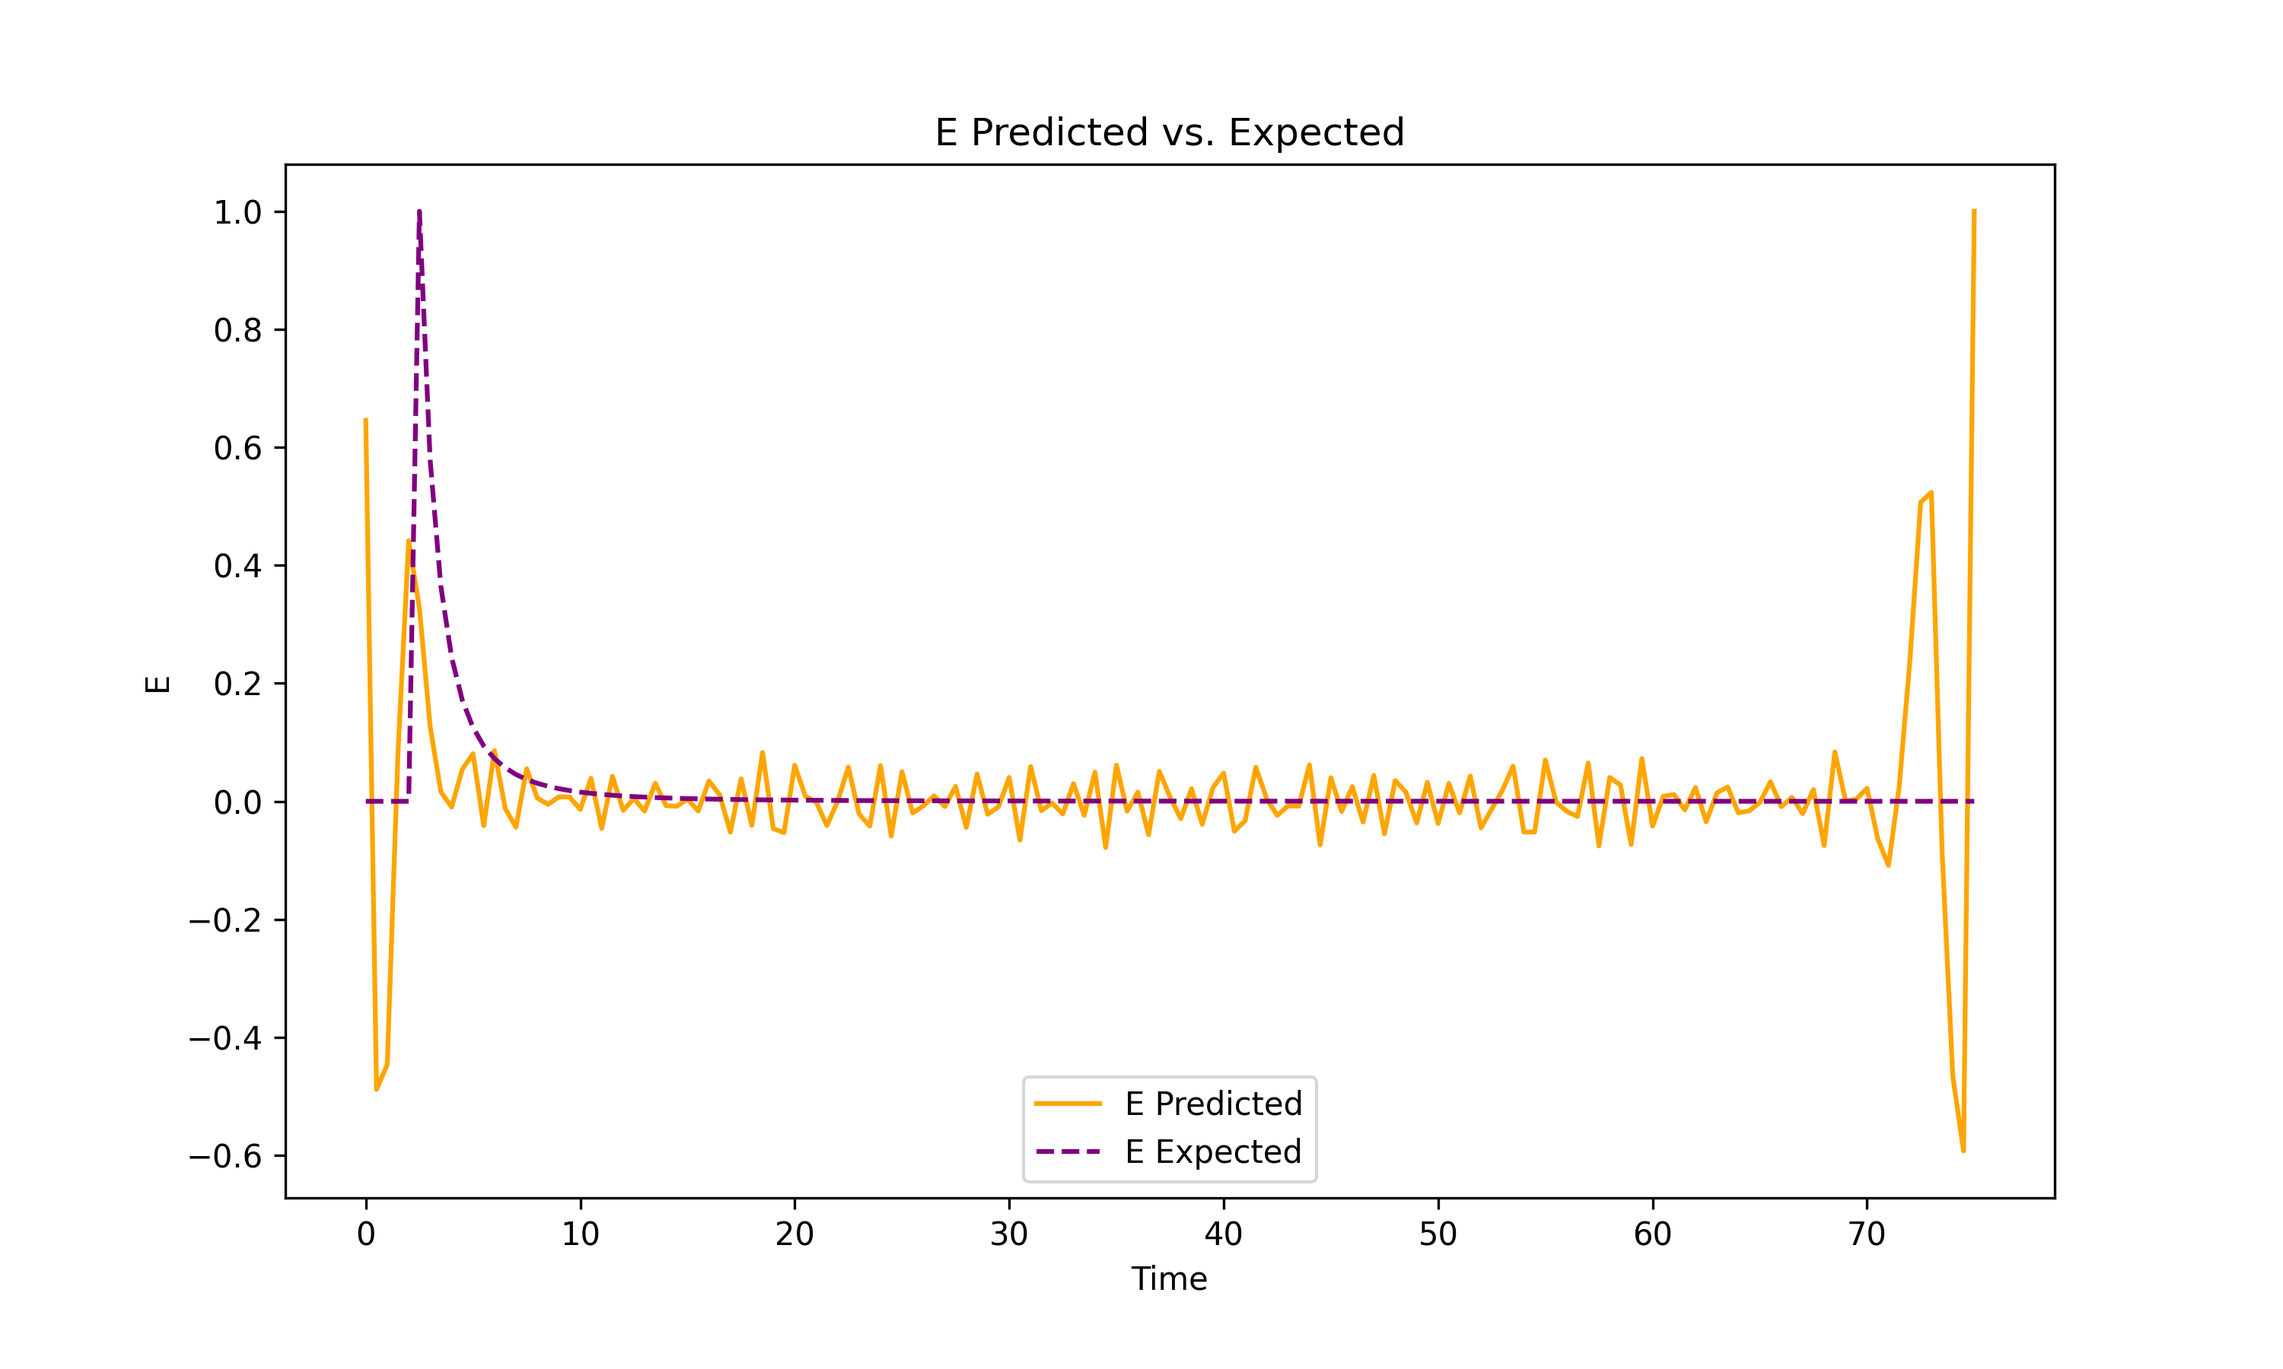
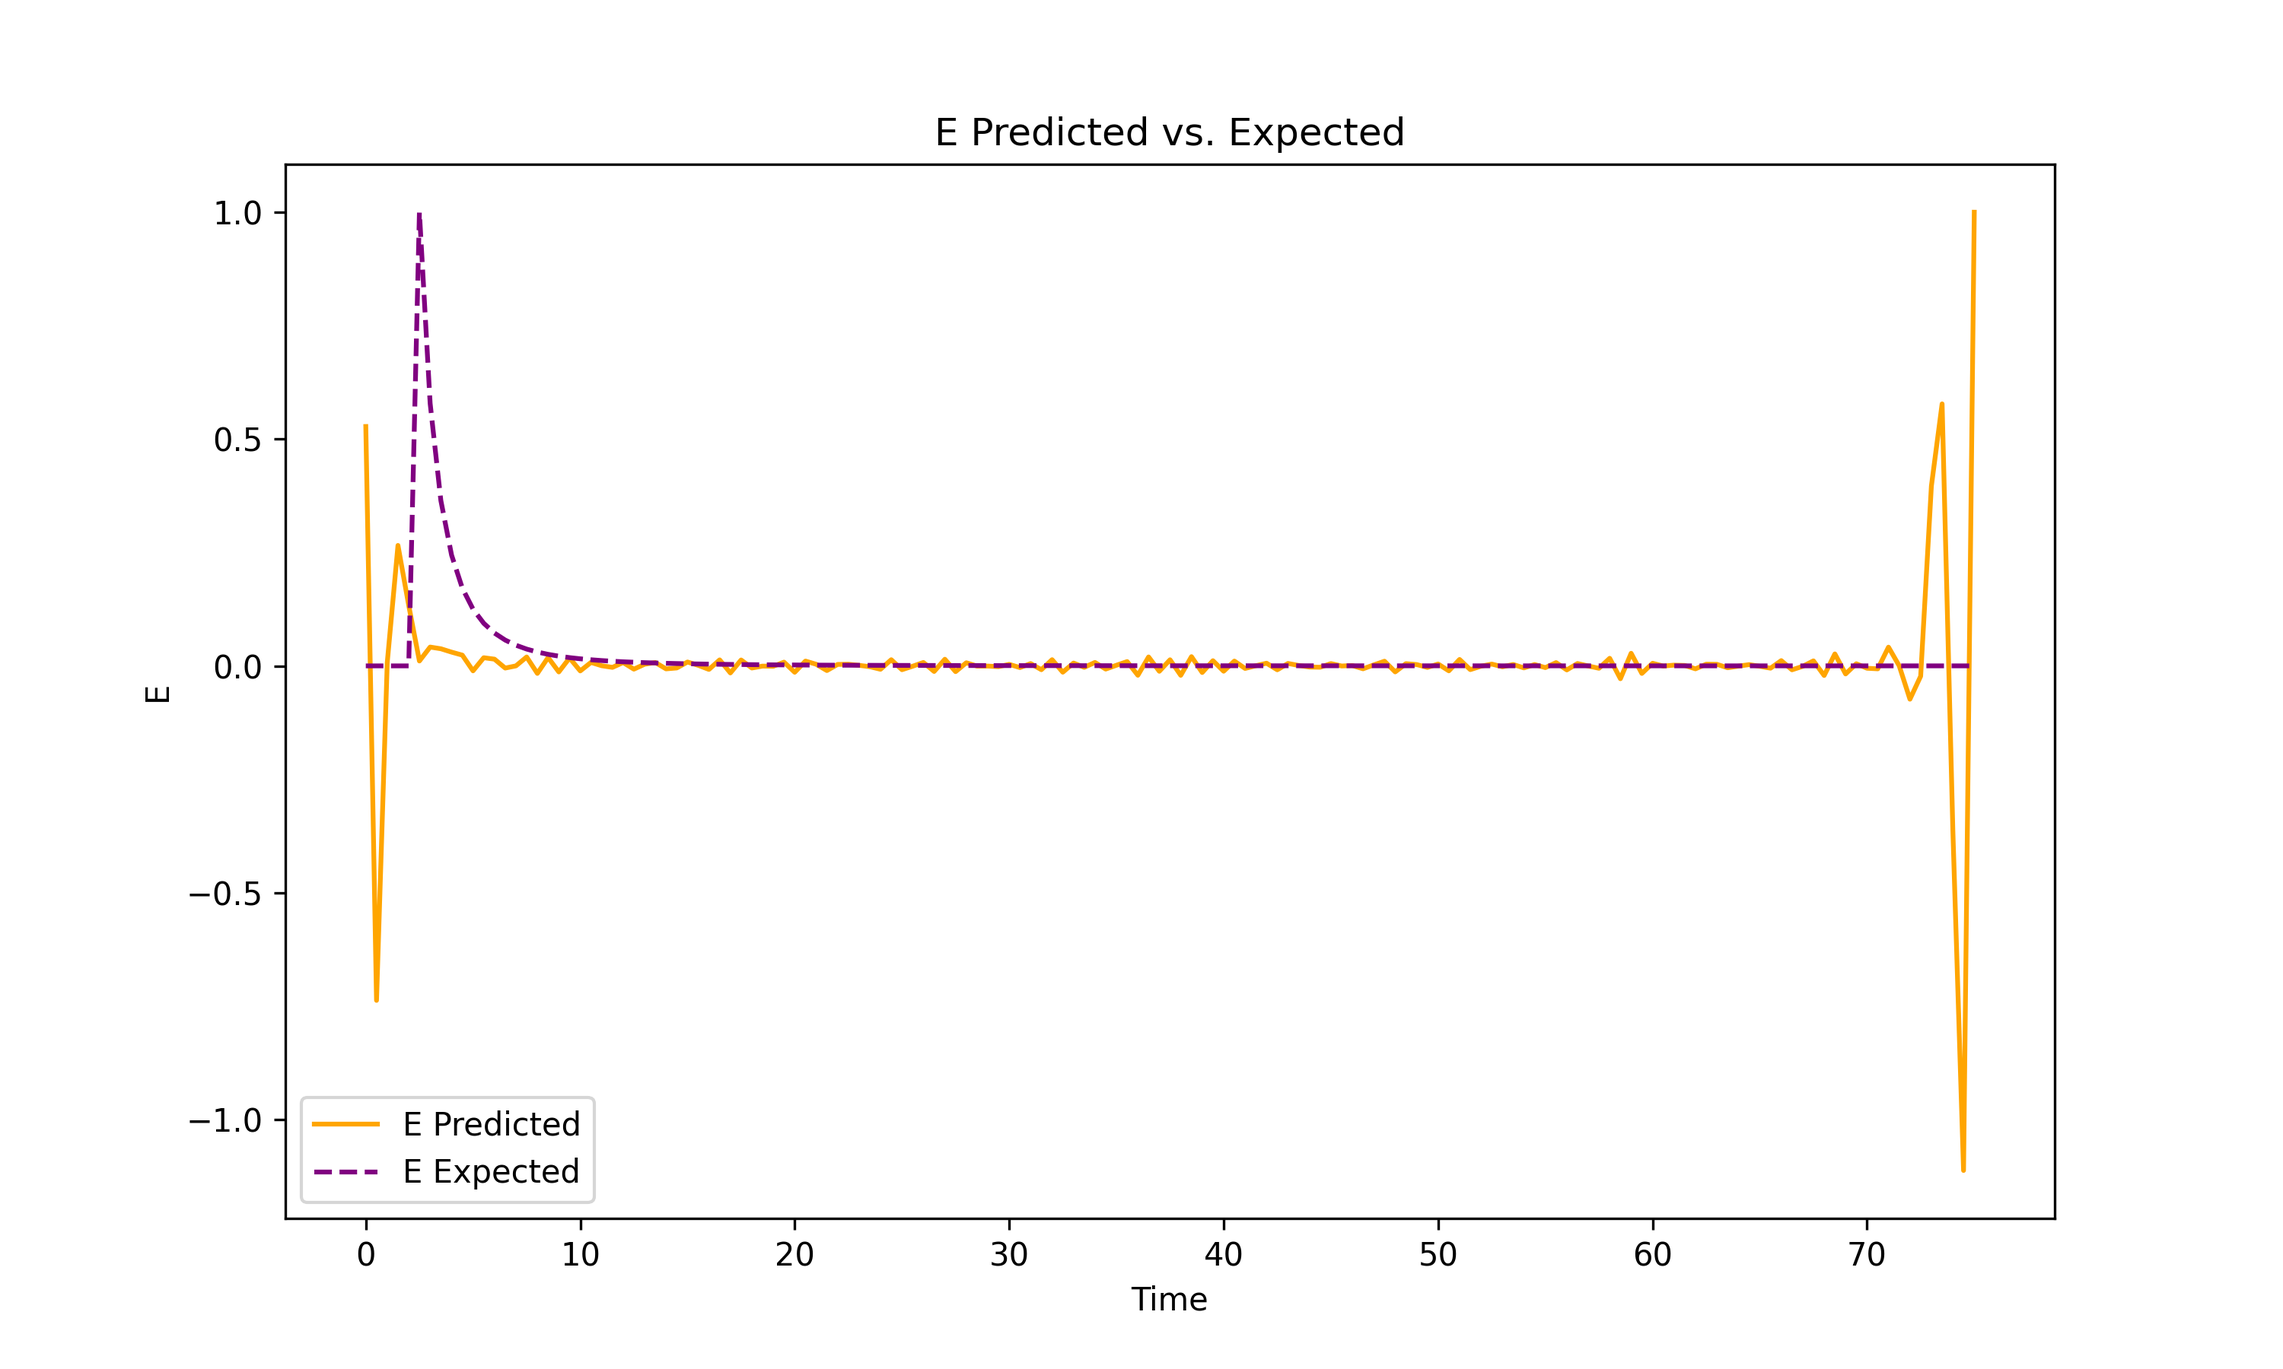
Dynamic

diff --git a/Experiments/Preliminary/Convolution_script/Convolution_Laminar_Flow_Dynamic/Laminar_Flow_Dynamic_03.py b/Experiments/Preliminary/Convolution_script/Convolution_Laminar_Flow_Dynamic/Laminar_Flow_Dynamic_03.py
@@ -2,34 +2,46 @@ import matplotlib.pyplot as plt
 import numpy.typing as npt
 import sys
 import os
+module_path = os.path.expanduser("lib")
+sys.path.append(module_path)
 import torch
 from torch.utils.data import TensorDataset, DataLoader
 import lightning.pytorch as pl
 import numpy as np
 import wandb
-module_path = os.path.expanduser("~/Documents/GitHub/nRTD/lib")
+#module_path = os.path.expanduser("~/Documents/GitHub/nRTD/lib")
+#sys.path.append(module_path)
+
+module_path = r"D:\Tuana\nRTD\lib"
 sys.path.append(module_path)
+
 from nRTD.rtd_fitting_2 import RTDModule
 from nRTD.rtd_net_4 import RTDNet
 from lightning.pytorch import loggers as pl_loggers
+import os
+import datetime
+import sympy as sp
+from sympy import ceiling
+from ICIW_Plots import make_square_ax, cm2inch
 
 if wandb.run is not None:
     wandb.finish()
 
 # Base and save directories
-base_dir = "/Users/tuanaoyuncu/Documents/GitHub/nRTD/Experiments/Preliminary/Litrature/Laminar_Flow_Model_dynamic/tau_5.0_with_varying_step"
-save_dir = "/Users/tuanaoyuncu/Documents/GitHub/nRTD/Experiments/Preliminary/Convolution_script/Convolution_Laminar_Flow_Dynamic"
-
+#base_dir = "/Users/tuanaoyuncu/Documents/GitHub/nRTD/Experiments/Preliminary/Litrature/Laminar_Flow_Model_dynamic/tau_5.0_with_varying_step"
+base_dir =r"D:\Tuana\nRTD\Experiments\Preliminary\Litrature\Laminar_Flow_Model_dynamic\tau_5.0_with_varying_step"
+#save_dir = "/Users/tuanaoyuncu/Documents/GitHub/nRTD/Experiments/Preliminary/Convolution_script/Convolution_Laminar_Flow_Dynamic"
+save_dir=r"D:\Tuana\nRTD\Experiments\Preliminary\Convolution_script\Convolution_Laminar_Flow_Dynamic"
 # Parameters
-n_variations = 100
+n_variations = 100  # Use first 100 variations for training
 c_in_list = []
 c_out_list = []
 
-# Load all variations for training
-for i in np.linspace(0, 1, n_variations):  # Match i_values used during saving
+# Load first 100 variations for training
+for i in np.linspace(0, 1, n_variations):  # n_variations will control the number of files
     i_str = f"{i:.2f}".replace('.', '_')  # Format i for filenames
     variation_dir = os.path.join(base_dir, f"variation_{i_str}")  # Directory for each variation
-    
+
     t_conv = np.load(os.path.join(variation_dir, "time.npy"))
     c_out = np.load(os.path.join(variation_dir, "concentration.npy"))
     input_func = np.load(os.path.join(variation_dir, "input_function_interp.npy"))
@@ -38,79 +50,24 @@ for i in np.linspace(0, 1, n_variations):  # Match i_values used during saving
     c_out_list.append(torch.tensor(c_out, dtype=torch.float32).unsqueeze(0).unsqueeze(0))
 
 # Prepare training data
-c_in_train = torch.cat(c_in_list[:-1], dim=0)  # Use all but one for training
-c_out_train = torch.cat(c_out_list[:-1], dim=0)
+c_in_train = torch.cat(c_in_list, dim=0)  # Using all 100 for training
+c_out_train = torch.cat(c_out_list, dim=0)
 
-
+# Load test files
 test_time_path = os.path.join(base_dir, "time_test.npy")
 test_concentration_path = os.path.join(base_dir, "concentration_test.npy")
 test_input_function_path = os.path.join(base_dir, "input_test.npy")
 
-
-# Print the paths for debugging
-print("Test time file path:", test_time_path)
-print("Test concentration file path:", test_concentration_path)
-print("Test input function file path:", test_input_function_path)
-
-# Check if the files exist and print their existence status
-print("Test time file exists:", os.path.exists(test_time_path))
-print("Test concentration file exists:", os.path.exists(test_concentration_path))
-print("Test input function file exists:", os.path.exists(test_input_function_path))
-
-# Raise an error if any file is missing
-if not (os.path.exists(test_time_path) and os.path.exists(test_concentration_path) and os.path.exists(test_input_function_path)):
+# Check if test files exist
+if not all(os.path.exists(path) for path in [test_time_path, test_concentration_path, test_input_function_path]):
     raise FileNotFoundError("One or more test file components are missing at the specified path.")
 
-# Load the specified test file
+# Load test data
 test_t_conv = torch.tensor(np.load(test_time_path), dtype=torch.float32).unsqueeze(0).unsqueeze(0)
 test_c_out = torch.tensor(np.load(test_concentration_path), dtype=torch.float32).unsqueeze(0).unsqueeze(0)
 test_input_func = torch.tensor(np.load(test_input_function_path), dtype=torch.float32).unsqueeze(0).unsqueeze(0)
-print(test_input_func.shape)
-# Debugging the loaded shapes
-for i, (c_in, c_out) in enumerate(zip(c_in_list, c_out_list)):
-    print(f"Training variation {i}: c_in shape = {c_in.shape}, c_out shape = {c_out.shape}")
 
-# Prepare training data and print their shapes
-c_in_train = torch.cat(c_in_list[:-1], dim=0)  # Use all but one for training
-c_out_train = torch.cat(c_out_list[:-1], dim=0)
-print("c_in_train shape:", c_in_train.shape)
-print("c_out_train shape:", c_out_train.shape)
-
-# Test file paths
-test_time_path = os.path.join(base_dir, "time_test.npy")
-test_concentration_path = os.path.join(base_dir, "concentration_test.npy")
-test_input_function_path = os.path.join(base_dir, "input_test.npy")
-
-# Print paths for debugging
-print("Test time file path:", test_time_path)
-print("Test concentration file path:", test_concentration_path)
-print("Test input function file path:", test_input_function_path)
-
-# Check file existence
-print("Test time file exists:", os.path.exists(test_time_path))
-print("Test concentration file exists:", os.path.exists(test_concentration_path))
-print("Test input function file exists:", os.path.exists(test_input_function_path))
-
-# Load test files and print their shapes
-if os.path.exists(test_time_path) and os.path.exists(test_concentration_path) and os.path.exists(test_input_function_path):
-    test_t_conv = torch.tensor(np.load(test_time_path), dtype=torch.float32).unsqueeze(0).unsqueeze(0)
-    test_c_out = torch.tensor(np.load(test_concentration_path), dtype=torch.float32).unsqueeze(0).unsqueeze(0)
-    test_input_func = torch.tensor(np.load(test_input_function_path), dtype=torch.float32).unsqueeze(0).unsqueeze(0)
-
-    print("test_t_conv shape:", test_t_conv.shape)
-    print("test_c_out shape:", test_c_out.shape)
-    print("test_input_func shape:", test_input_func.shape)
-else:
-    raise FileNotFoundError("One or more test file components are missing at the specified path.")
-
-# Debugging final shapes
-print("Final shapes:")
-print("c_in_train shape:", c_in_train.shape)
-print("c_out_train shape:", c_out_train.shape)
-print("test_input_func shape:", test_input_func.shape)
-print("test_c_out shape:", test_c_out.shape)
-
-# Create datasets
+# Create datasets and dataloaders
 train_dataset = TensorDataset(c_in_train, c_out_train)
 train_loader = DataLoader(train_dataset, batch_size=100, shuffle=True)
 
@@ -132,7 +89,7 @@ wandb_logger = pl_loggers.WandbLogger(project="nRTD", log_model=True)
 # Training the model
 trainer = pl.Trainer(
     accelerator="auto",
-    max_epochs=1000,
+    max_epochs=1,
     logger=wandb_logger,
     deterministic=True,
 )
@@ -140,20 +97,23 @@ trainer = pl.Trainer(
 # Train and test the model
 trainer.fit(model, train_loader)
 results = trainer.test(model, test_loader)
-t_e_1=75
-c_conv = model(c_in_train)  
+
+# Time and expected values
+t_e_1 = 75
+c_conv = model(c_in_train)
 E = model.net.E[0]
-t_E =torch.linspace(0, float(t_e_1), int(model.kernel_sizes[0]))
-E = E/E.max()
+t_E = torch.linspace(0, float(t_e_1), int(model.kernel_sizes[0]))
+E = E / E.max()
 
 # Expected E calculation
 t_E_np = np.linspace(0, 75, 151)
+
 def expected_formula(t):
     return np.where(t >= 2.5, (2.5**2) / (2 * (t**3)), 0)
+
 E_expected = expected_formula(t_E_np)
 E_expected /= E_expected.max()
 
-# Plot E Predicted vs. Expected
 # Plot E Predicted vs. Expected
 plt.figure(figsize=(10, 6))
 
@@ -170,9 +130,46 @@ plt.title("E Predicted vs. Expected")
 plt.savefig(os.path.join(save_dir, "E_pred_vs_expected.png"), dpi=300)
 plt.show()
 
-
 # Save results
-# np.save(os.path.join(save_dir, "E_predicted.npy"), E.detach().numpy())
-# np.save(os.path.join(save_dir, "t_E_predicted.npy"), t_E.numpy())
-# np.save(os.path.join(save_dir, "E_expected.npy"), E_expected)
-# np.save(os.path.join(save_dir, "t_E_expected.npy"), t_E_np)
+np.save(os.path.join(save_dir, "E_predicted.npy"), E)
+np.save(os.path.join(save_dir, "t_E_predicted.npy"), t_E.numpy())
+np.save(os.path.join(save_dir, "E_expected.npy"), E_expected)
+np.save(os.path.join(save_dir, "t_E_expected.npy"), t_E_np)
+
+index = 50  # Change this index to plot different samples
+
+# Get the data for the selected index
+c_in_sample = c_in_train[index].detach().cpu().numpy()  # input function
+c_out_sample = c_out_train[index].detach().cpu().numpy()  # actual output
+c_conv_sample = c_conv[index].detach().cpu().numpy()  # predicted output
+
+# Time vector for the x-axis (assuming it's the same for all)
+time_vector_in =  np.linspace(0, 75, 150) # Time associated with c_in, c_out, c_conv
+time_vector_out =  np.linspace(0, 150, 300)
+# Plot c_in, c_out, and c_conv for the selected sample
+plt.figure(figsize=(10, 6))
+plt.plot(time_vector_in, c_in_sample[0], label="c_in (Input)", linestyle='-', color='blue')
+plt.plot(time_vector_out, c_out_sample[0], label="c_out (Actual Output)", linestyle='--', color='green')
+plt.plot(time_vector_out, c_conv_sample[0], label="c_conv (Predicted Output)", linestyle='-.', color='orange')
+
+
+print(c_in_sample.shape)
+print(c_out_sample.shape)
+print(c_conv_sample.shape)
+
+
+
+
+# Labels and title
+
+plt.xlabel("Time")
+plt.ylabel("Concentration")
+plt.title("Comparison of c_in, c_out, and c_conv for a Sample")
+plt.legend()
+plt.grid(True)
+
+# Save the plot to a file (optional)
+#plt.savefig(os.path.join(save_dir, "c_in_c_out_c_conv_sample.png"), dpi=300)
+
+# Show the plot
+plt.show()

diff --git a/Experiments/Preliminary/Noisy_data/Sqrt_Method/Lamiar_Flow_noisy_loop_04_windows.py b/Experiments/Preliminary/Noisy_data/Sqrt_Method/Lamiar_Flow_noisy_loop_04_windows.py
@@ -9,8 +9,12 @@ from torch.utils.data import TensorDataset, DataLoader
 import lightning.pytorch as pl
 import numpy as np
 import wandb
-module_path = os.path.expanduser("~/Documents/GitHub/nRTD/lib")
+#module_path = os.path.expanduser("~/Documents/GitHub/nRTD/lib")
+#sys.path.append(module_path)
+
+module_path = r"D:\Tuana\nRTD\lib"
 sys.path.append(module_path)
+
 from nRTD.rtd_fitting_2 import RTDModule
 from nRTD.rtd_net_4 import RTDNet
 from lightning.pytorch import loggers as pl_loggers
@@ -29,31 +33,36 @@ if wandb.run is not None:
 # os.chdir("/Users/tuanaoyuncu/Documents/GitHub/nRTD/Experiments/Preliminary/Noisy_data/Sqrt_Method")
 
 
-epoch=20000
+epoch=1500
 t_e_1=50
 n_disc = 100
 t_input = torch.linspace(0, 50, n_disc)
 c_in = torch.zeros((100, 1, n_disc))
 c_in[:, :, t_input > 5] = 1
 
-test_file ="/Users/tuanaoyuncu/Documents/GitHub/nRTD/Experiments/Preliminary/Litrature/Laminar_Flow_Model/tau_5.0_disc_200_100s"
-save_dir="Users/tuanaoyuncu/Documents/GitHub/nRTD/Experiments/Preliminary/Noisy_data/Sqrt_Method"
+#test_file ="/Users/tuanaoyuncu/Documents/GitHub/nRTD/Experiments/Preliminary/Litrature/Laminar_Flow_Model/tau_5.0_disc_200_100s"
+#save_dir="Users/tuanaoyuncu/Documents/GitHub/nRTD/Experiments/Preliminary/Noisy_data/Sqrt_Method"
+
+test_file =r"D:\Tuana\nRTD\Experiments\Preliminary\Litrature\Laminar_Flow_Model\tau_5.0_disc_200_100s"
+save_dir=r"D:\Tuana\nRTD\Experiments\Preliminary\Noisy_data\Sqrt_Method"
+
 t_conv_path = os.path.join(test_file, "time.npy")
 c_out_path = os.path.join(test_file, "concentration.npy")
 t_conv_test = torch.tensor(np.load(t_conv_path), dtype=torch.float32).unsqueeze(0).unsqueeze(0)
 c_out_test = torch.tensor(np.load(c_out_path), dtype=torch.float32).unsqueeze(0).unsqueeze(0)
-
+print(t_conv_test)
 #test_file_numbers = range(30, 100)
 
 def load_data(file_numbers):
     c_out_list = []
     t_conv_list = []
-    #dataset_dir = r"D:\Tuana\nRTD\Experiments\Preliminary\Noisy_data\Sqrt_Method\Tau_5.0_Laminar_Flow_Model_Dataset"
-    dataset_dir="/Users/tuanaoyuncu/Documents/GitHub/nRTD/Experiments/Preliminary/Noisy_data/Sqrt_Method/Tau_5.0_Laminar_Flow_Model_Dataset"
+    dataset_dir = r"D:\Tuana\nRTD\Experiments\Preliminary\Noisy_data\Sqrt_Method\Tau_5.0_Laminar_Flow_Model_Dataset"
+    #dataset_dir="/Users/tuanaoyuncu/Documents/GitHub/nRTD/Experiments/Preliminary/Noisy_data/Sqrt_Method/Tau_5.0_Laminar_Flow_Model_Dataset"
 
     for i in file_numbers: 
         t_conv_path = os.path.join(dataset_dir, f"Tau_5.0_Disc_200_time_Dataset_{i}.npy")
         c_out_path = os.path.join(dataset_dir, f"Tau_5.0_Disc_200_concentration_noisy_Dataset_{i}.npy")
+    
         
         if not (os.path.exists(t_conv_path) and os.path.exists(c_out_path)):
             print(f"Warning: Files for dataset {i} do not exist.")
@@ -77,7 +86,7 @@ test_ds = TensorDataset(c_in_test, c_out_test)
 test_dl = DataLoader(test_ds, batch_size=1, shuffle=False)
 
 
-train_file_configurations = [30,40,50,60,70,80,90,100]
+train_file_configurations = [20,40,60,70,80,100]
 
 for num_train_files in train_file_configurations:
     train_file_numbers = range(1, num_train_files + 1)
@@ -87,7 +96,7 @@ for num_train_files in train_file_configurations:
     model = RTDModule(
         kernel_sizes=[101],
         kernel_times=[(0.0, 50)],
-        learning_rate=1e-4,
+        learning_rate=1e-3,
         use_scheduler=True,
         scheduler_kwargs={"factor": 0.5, "patience": 80},
     )
@@ -111,13 +120,14 @@ for num_train_files in train_file_configurations:
     test_results = trainer.test(model, test_dl)
 
     c_conv = model(c_in[:num_train_files])  
-    E = model.net.E[0] / model.net.E[0].max()
+    E = model.net.E[0]
     t_E =torch.linspace(0, float(t_e_1), int(model.kernel_sizes[0]))
+    E = E / E.max()
     plt.figure(figsize=(10, 6))
     plt.plot(t_input, c_in[0, 0, :].numpy(), label="Input Signal (SF)", color="blue")
 
     for i in range(num_train_files):
-        plt.plot(t_conv_train[i, 0, :].numpy(), c_out_train[i, 0, :].numpy(), 
+        plt.plot(t_conv_train[1, 0, :].numpy(), c_out_train[1, 0, :].numpy(), 
                  label=f"Training Data {i+1}", color="green")
     
     plt.plot(t_conv_train[0, 0, :].numpy(), c_conv[0, 0, :].detach().numpy(), label="Predicted", color="red")
@@ -125,6 +135,7 @@ for num_train_files in train_file_configurations:
     plt.xlim((0, 30))
     plt.ylim((0, 2))
     plt.legend()
+    current_date = datetime.datetime.now().strftime("%Y%m%d")
     plt.savefig(os.path.join(save_dir, f"Noisy_data_{current_date}.png"), dpi=300)
     plt.show()
     wandb.finish()

diff --git a/Experiments/Preliminary/Litrature/Laminar_Flow_Model_dynamic/Laminar_flow_testing.py b/Experiments/Preliminary/Litrature/Laminar_Flow_Model_dynamic/Laminar_flow_testing.py
@@ -9,11 +9,11 @@ def laminarflow(t: npt.NDArray[np.float64], tau: float) -> npt.NDArray[np.float6
     E[t >= tau / 2] = (tau**2) / (2 * (t[t >= tau / 2]**3))
     return E
 
-t = np.linspace(0, 150, 300, endpoint=True)
+t = np.linspace(0, 300, 500, endpoint=True)
 c_0 = np.zeros_like(t)
 c_0[t > 5] = 1
 
-t_1 = np.linspace(0, 75, 150, endpoint=True)
+t_1 = np.linspace(0, 150, 250, endpoint=True)
 c_0_1 = np.zeros_like(t_1)
 c_0_1[t_1 > 5] = 1
 

diff --git a/Experiments/Preliminary/Litrature/Laminar_Flow_Model_dynamic/Laminar_Flow_Dynamic_varying_input.py b/Experiments/Preliminary/Litrature/Laminar_Flow_Model_dynamic/Laminar_Flow_Dynamic_varying_input.py
@@ -18,8 +18,8 @@ def laminarflow(t: npt.NDArray[np.float64], tau: float) -> npt.NDArray[np.float6
 
 
 # Time vector
-t = np.linspace(0, 150, 300)
-t_75 = np.linspace(0, 75, 150)
+t = np.linspace(0, 300, 500)
+t_75 = np.linspace(0, 150, 250)
 
 # Generate laminar flow E
 E = laminarflow(t, tau)
